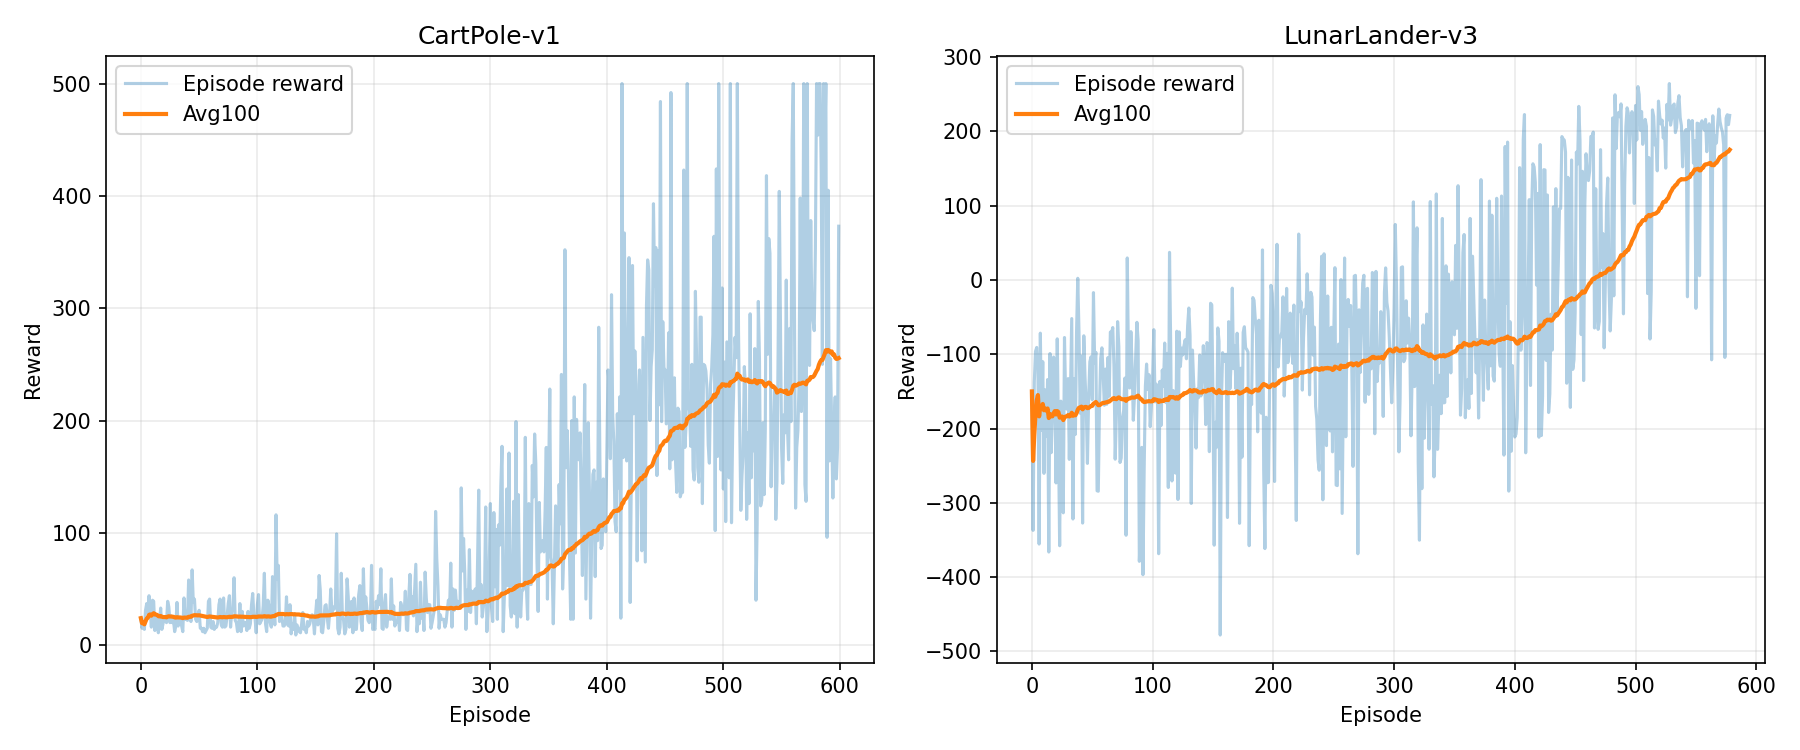
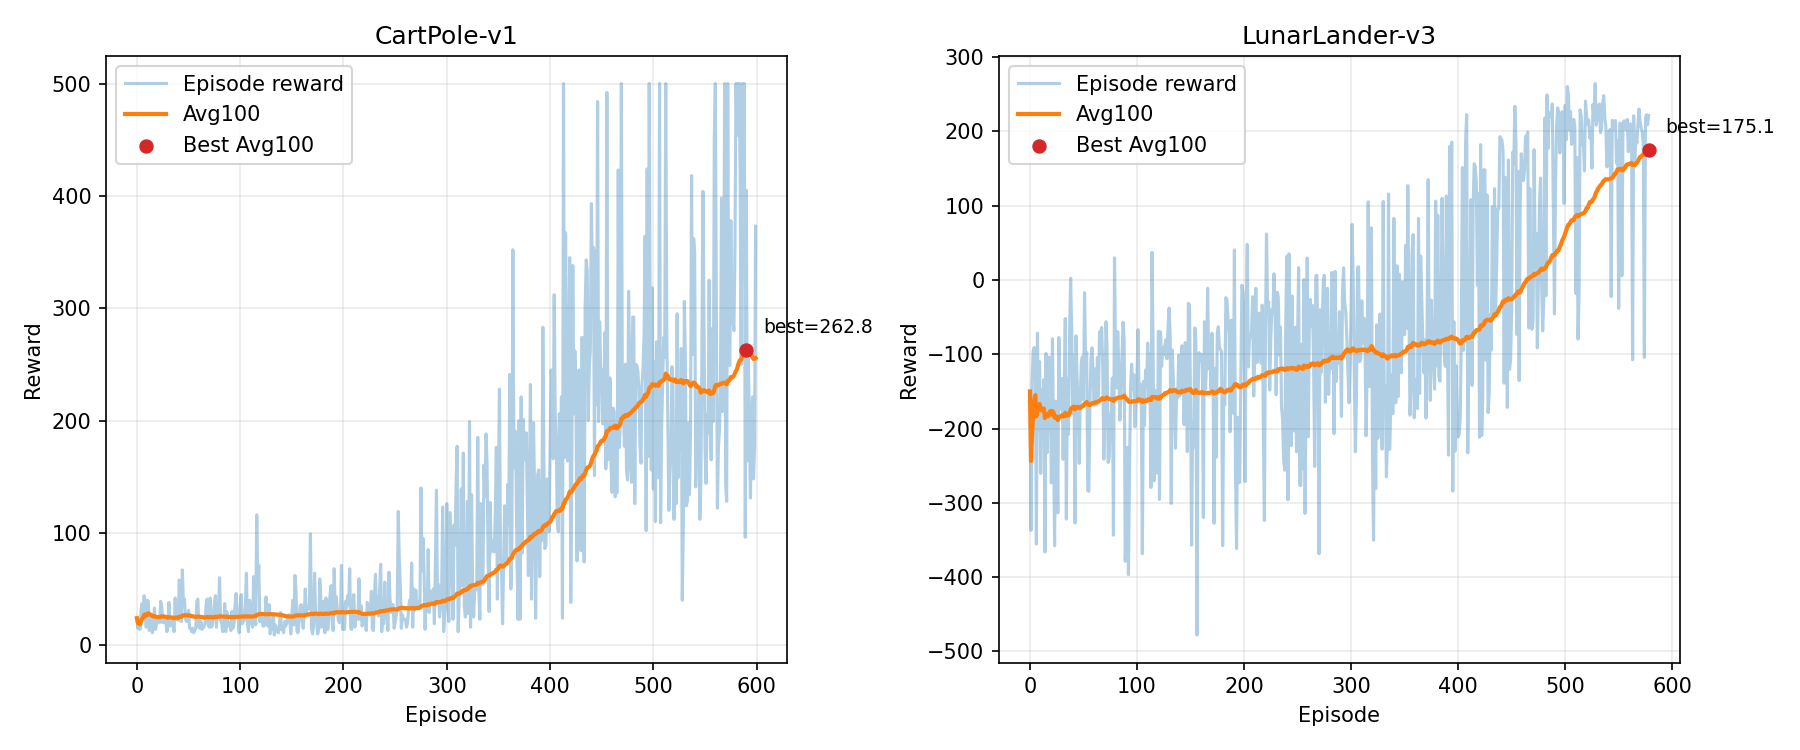
deterministic hem stochastic karşılaştırma

diff --git a/train.py b/train.py
@@ -3,6 +3,9 @@ import json
 import time
 
 import gymnasium as gym
+import matplotlib
+
+matplotlib.use("Agg")
 import matplotlib.pyplot as plt
 import numpy as np
 import torch
@@ -27,6 +30,7 @@ env_configs = {
         "patience": 150,
         "min_episodes": 100,
         "target_kl": 0.03,
+        "eval_deterministic": True,
     },
     "LunarLander-v3": {
         "max_episodes": 3000,
@@ -44,6 +48,7 @@ env_configs = {
         "patience": 250,
         "min_episodes": 500,
         "target_kl": 0.02,
+        "eval_deterministic": False,
     },
 }
 
@@ -92,7 +97,7 @@ def store_transition(memory, state, action, log_prob, reward, value, done, conti
     memory.is_terminals.append(bool(done))
 
 
-def evaluate(env_name, checkpoint_path, episodes=10, seed=123):
+def evaluate(env_name, checkpoint_path, episodes=10, seed=123, deterministic=True):
     env = gym.make(env_name)
     checkpoint = torch.load(checkpoint_path, map_location="cpu", weights_only=False)
     ppo, continuous, _, _ = make_agent(env, checkpoint["config"])
@@ -105,7 +110,7 @@ def evaluate(env_name, checkpoint_path, episodes=10, seed=123):
         episode_reward = 0.0
         done = False
         while not done:
-            action, _, _ = ppo.select_action(state, deterministic=True)
+            action, _, _ = ppo.select_action(state, deterministic=deterministic)
             if continuous:
                 action = np.clip(action, env.action_space.low, env.action_space.high)
             state, reward, terminated, truncated, _ = env.step(action)
@@ -116,6 +121,7 @@ def evaluate(env_name, checkpoint_path, episodes=10, seed=123):
     env.close()
     return {
         "episodes": episodes,
+        "mode": "deterministic" if deterministic else "stochastic",
         "mean_reward": float(np.mean(rewards)),
         "std_reward": float(np.std(rewards)),
         "rewards": rewards,
@@ -231,7 +237,30 @@ def train(env_name, seed=42):
     }
 
     if best_average_reward > -float("inf"):
-        result["evaluation"] = evaluate(env_name, checkpoint_path, episodes=10, seed=seed + 10_000)
+        primary_deterministic = config.get("eval_deterministic", True)
+        result["evaluation"] = evaluate(
+            env_name,
+            checkpoint_path,
+            episodes=20,
+            seed=seed + 10_000,
+            deterministic=primary_deterministic,
+        )
+        result["evaluation_comparison"] = {
+            "deterministic": evaluate(
+                env_name,
+                checkpoint_path,
+                episodes=10,
+                seed=seed + 20_000,
+                deterministic=True,
+            ),
+            "stochastic": evaluate(
+                env_name,
+                checkpoint_path,
+                episodes=10,
+                seed=seed + 30_000,
+                deterministic=False,
+            ),
+        }
 
     return result
 
@@ -242,6 +271,17 @@ def plot_results(results, save_path="ppo_training_results.png"):
         plt.subplot(1, len(results), index)
         plt.plot(data["rewards"], alpha=0.35, label="Episode reward")
         plt.plot(data["moving_avg_100"], linewidth=2, label="Avg100")
+        best_avg = data.get("metadata", {}).get("best_average_reward")
+        if best_avg is not None:
+            best_episode = int(np.argmax(data["moving_avg_100"]))
+            plt.scatter(best_episode, best_avg, color="tab:red", s=35, zorder=3, label="Best Avg100")
+            plt.annotate(
+                f"best={best_avg:.1f}",
+                xy=(best_episode, best_avg),
+                xytext=(8, 8),
+                textcoords="offset points",
+                fontsize=9,
+            )
         plt.title(env_name)
         plt.xlabel("Episode")
         plt.ylabel("Reward")

diff --git a/RESULTS_SUMMARY.md b/RESULTS_SUMMARY.md
@@ -1,0 +1,24 @@
+# PPO Results Summary
+
+This project evaluates a from-scratch PPO implementation on two Gymnasium benchmark environments: CartPole-v1 and LunarLander-v3.
+
+## Main Results
+
+| Environment | Best Avg100 | Primary Evaluation | Evaluation Mean | Notes |
+| --- | ---: | --- | ---: | --- |
+| CartPole-v1 | 262.82 | deterministic, 30 episodes | 469.33 | The learned policy is strong under greedy action selection. |
+| LunarLander-v3 | 175.12 | stochastic, 30 episodes | 149.05 | The policy is much better when sampled stochastically than when forced to argmax. |
+
+## Interpretation
+
+CartPole-v1 shows a clear upward learning curve. Although the final training Avg100 does not reach the strict Gymnasium solved threshold of 475, deterministic evaluation of the best checkpoint reaches a high average reward, showing that the policy learned a stable control strategy.
+
+LunarLander-v3 is more unstable, which is expected for PPO on this environment. The agent improves from roughly -180 Avg100 at the beginning to 175 Avg100 by the end of training. Deterministic evaluation is weaker than stochastic evaluation, so the report uses stochastic evaluation as the primary metric for LunarLander.
+
+## Practical Lessons
+
+- PPO performance depends strongly on rollout size, learning rate, entropy, and update stability.
+- Saving the best checkpoint is necessary because continued training can degrade the policy.
+- KL-based early stopping helps avoid overly large policy updates.
+- Reporting both training curves and separate evaluation runs gives a more honest view of performance.
+
